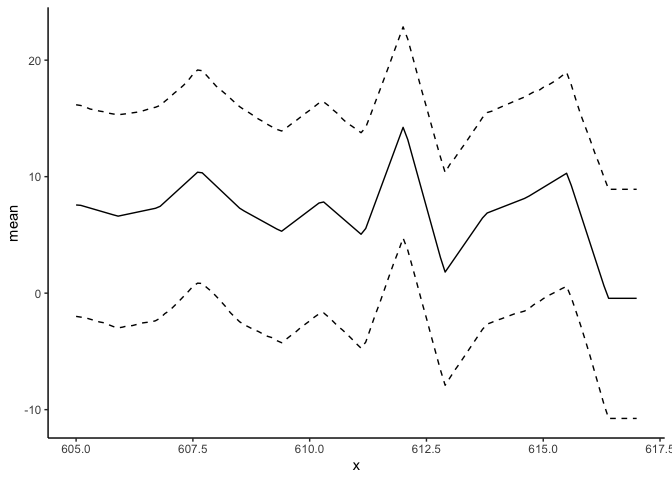
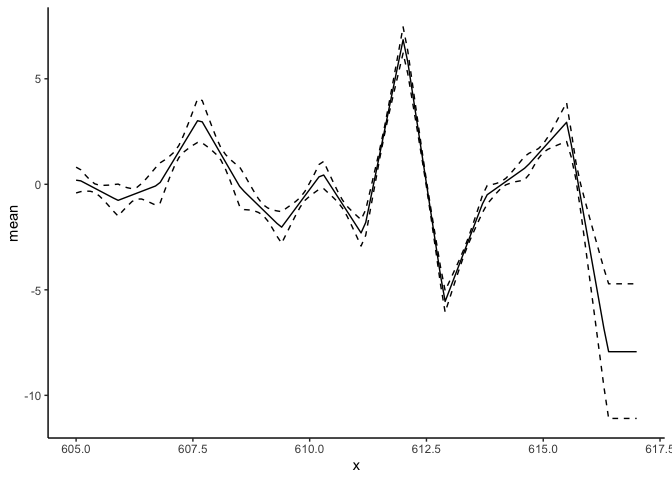
initialize

diff --git a/README.md b/README.md
@@ -1,54 +1,39 @@
 
 <!-- README.md is generated from README.Rmd. Please edit that file -->
 
-# OSplines
+# BayesGP
 
 <!-- badges: start -->
 <!-- badges: end -->
 
-The goal of the `OSplines` package is to efficiently implement
+The goal of the `BayesGP` package is to efficiently implement
 model-based smoothing with the integrated Wiener’s process, within a
 variety of Bayesian hierarchical models.
 
 ## Installation
 
-You can install the development version of OSplines from
+You can install the development version of BayesGP from
 [GitHub](https://github.com/) with:
 
 ``` r
 # install.packages("devtools")
-devtools::install_github("https://github.com/Smoothing-IWP/OSplines/tree/development")
+devtools::install_github("https://github.com/AgueroZZ/BayesGP")
 ```
 
 ## Example
 
-This is a basic example which shows you how to use `OSplines` to fit and
+This is a basic example which shows you how to use `BayesGP` to fit and
 analyze some models, we consider the following data set of COVID-19
 mortality in Canada, which is available in the package:
 
 ``` r
-library(OSplines)
-#> Loading required package: tidyverse
-#> ── Attaching packages ─────────────────────────────────────── tidyverse 1.3.2 ──
-#> ✔ ggplot2 3.4.1      ✔ purrr   0.3.4 
-#> ✔ tibble  3.1.8      ✔ dplyr   1.0.10
-#> ✔ tidyr   1.2.1      ✔ stringr 1.4.1 
-#> ✔ readr   2.1.2      ✔ forcats 0.5.2 
-#> ── Conflicts ────────────────────────────────────────── tidyverse_conflicts() ──
-#> ✖ dplyr::filter() masks stats::filter()
-#> ✖ dplyr::lag()    masks stats::lag()
+library(BayesGP)
 #> Loading required package: Matrix
-#> 
-#> 
-#> Attaching package: 'Matrix'
-#> 
-#> 
-#> The following objects are masked from 'package:tidyr':
-#> 
-#>     expand, pack, unpack
-#> 
-#> 
 #> Loading required package: aghq
+#> Loading required package: LaplacesDemon
+#> Registered S3 method overwritten by 'LaplacesDemon':
+#>   method        from
+#>   print.laplace aghq
 ## basic example code
 head(covid_canada)
 #>         Date new_deaths        t weekdays1 weekdays2 weekdays3 weekdays4
@@ -98,19 +83,17 @@ summary(fit_result)
 #> Here are some moments and quantiles for the log precision: 
 #>               mean        sd     2.5%    median     97.5%
 #> theta(t) -3.271182 0.2785344 -3.87922 -3.268308 -2.760093
-#> Warning: 'Matrix::..2dge' is deprecated.
-#> Use '.dense2g' instead.
-#> See help("Deprecated") and help("Matrix-deprecated").
+#> 
 #> Here are some moments and quantiles for the fixed effects: 
 #> 
 #>               1st Qu.      Median        Mean     3rd Qu.         sd
-#> Intercept -5.83467386 -5.38944536 -5.38103535 -4.93597990 0.66875134
-#> weekdays1  0.08553402  0.09336717  0.09365016  0.10154757 0.01190516
-#> weekdays2  0.07142286  0.07924949  0.07943187  0.08731386 0.01206658
-#> weekdays3  0.11883026  0.12713250  0.12664707  0.13441380 0.01166946
-#> weekdays4  0.11760402  0.12542216  0.12560977  0.13357553 0.01182332
-#> weekdays5  0.04204704  0.05034855  0.05025144  0.05834749 0.01216216
-#> weekdays6 -0.16051122 -0.15166826 -0.15169270 -0.14326187 0.01320432
+#> Intercept -5.85009960 -5.39828827 -5.40444709 -4.96610282 0.66061232
+#> weekdays1  0.08593199  0.09363400  0.09374558  0.10185204 0.01198239
+#> weekdays2  0.07119132  0.07901001  0.07921671  0.08681463 0.01188838
+#> weekdays3  0.11915351  0.12664433  0.12672077  0.13428875 0.01150235
+#> weekdays4  0.11738449  0.12540111  0.12547251  0.13351978 0.01181344
+#> weekdays5  0.04171450  0.05005612  0.05001256  0.05800325 0.01213118
+#> weekdays6 -0.16074510 -0.15130102 -0.15125835 -0.14229662 0.01336132
 ```
 
 We can also see the inferred function $f$:
@@ -127,6 +110,19 @@ or its derivative at `new_data`.
 For the function $f$:
 
 ``` r
+library(tidyverse)
+#> ── Attaching packages ─────────────────────────────────────── tidyverse 1.3.2 ──
+#> ✔ ggplot2 3.4.1      ✔ purrr   0.3.4 
+#> ✔ tibble  3.1.8      ✔ dplyr   1.0.10
+#> ✔ tidyr   1.2.1      ✔ stringr 1.4.1 
+#> ✔ readr   2.1.2      ✔ forcats 0.5.2 
+#> ── Conflicts ────────────────────────────────────────── tidyverse_conflicts() ──
+#> ✖ tidyr::expand()  masks Matrix::expand()
+#> ✖ dplyr::filter()  masks stats::filter()
+#> ✖ dplyr::lag()     masks stats::lag()
+#> ✖ tidyr::pack()    masks Matrix::pack()
+#> ✖ purrr::partial() masks LaplacesDemon::partial()
+#> ✖ tidyr::unpack()  masks Matrix::unpack()
 predict_f <- predict(fit_result, variable = "t", newdata = data.frame(t = seq(from = 605, to = 617, by = 0.1)))
 predict_f %>% ggplot(aes(x = x)) + geom_line(aes(y = mean), lty = "solid") +
   geom_line(aes(y = plower), lty = "dashed") +
